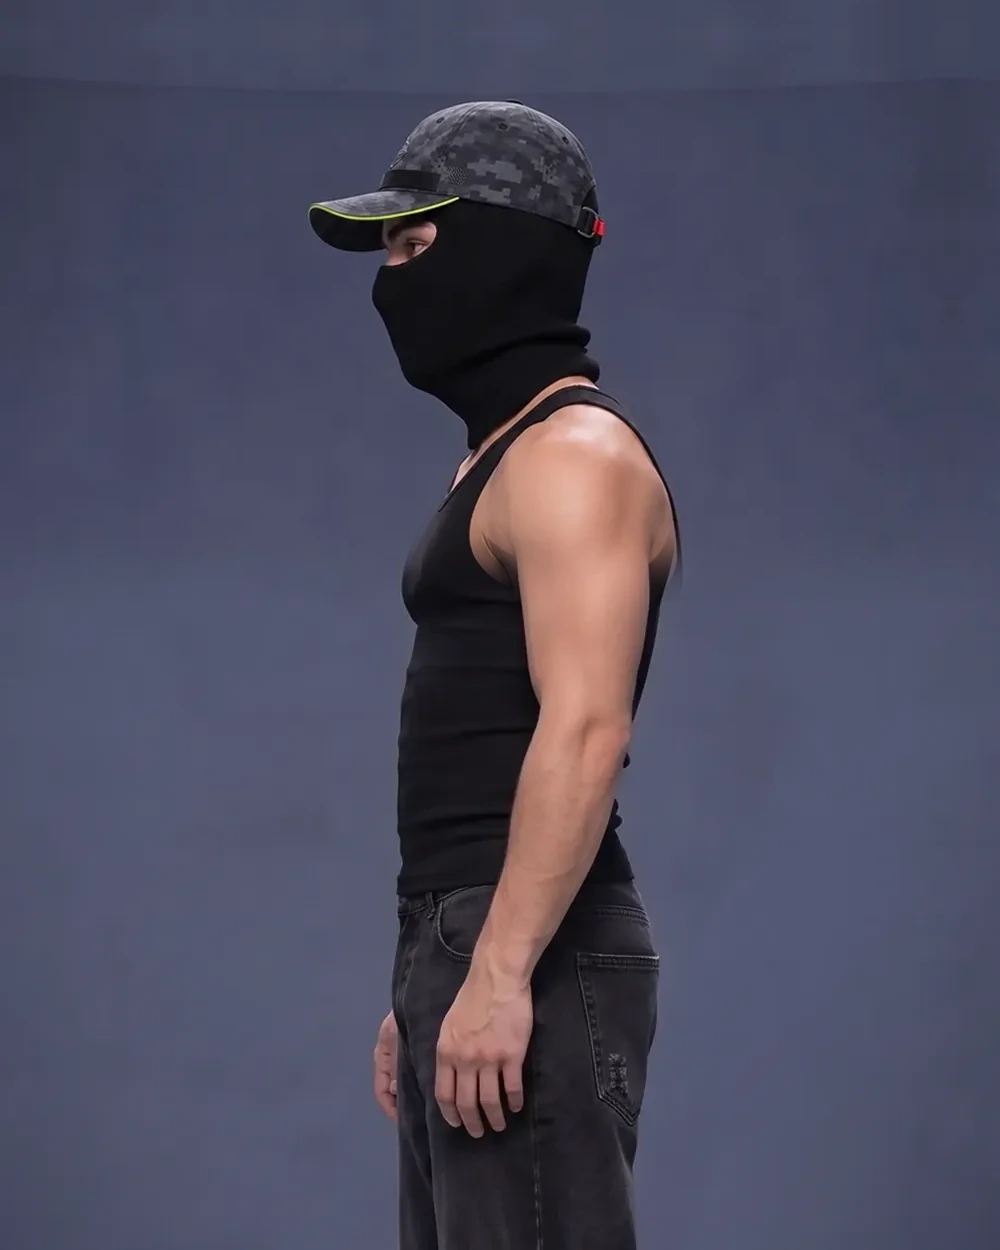
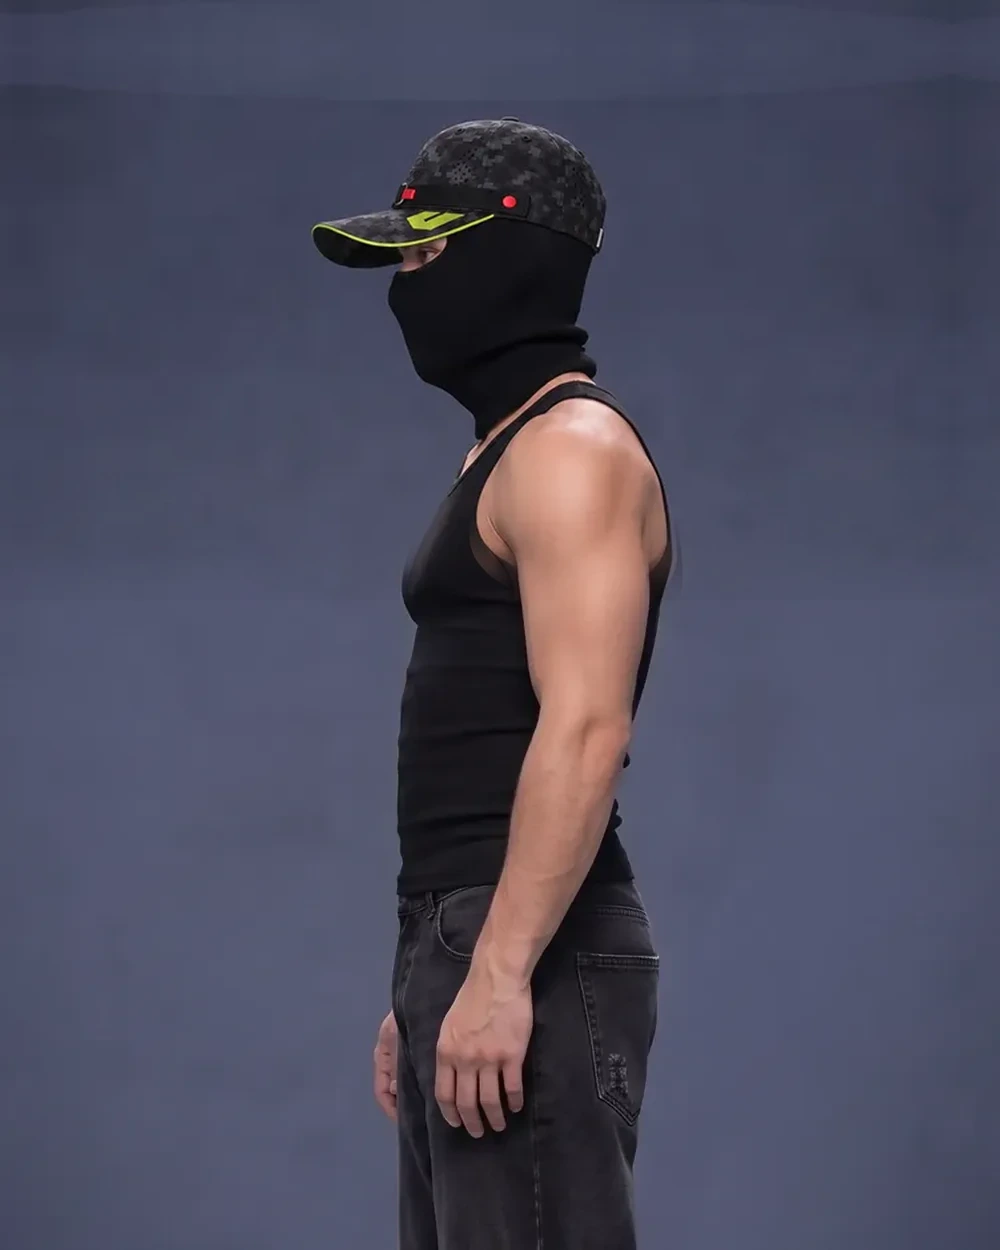
Cabine camo cap: fix sides (red snap only on the left side, D-ring side plain)
Claude-Session: https://claude.ai/code/session_01JHKczBwFKYFofkfxCnLE6j

Changed region(s): [[0.31, 0.0624, 0.62, 0.2808], [0.434, 0.2808, 0.682, 0.468], [0.403, 0.2808, 0.434, 0.312]]

diff --git a/src/components/collection/CabineViewer.tsx b/src/components/collection/CabineViewer.tsx
@@ -5,7 +5,7 @@ import { useZoom } from "@/lib/use-zoom";
 
 export const CABINE_FRAMES = 8;
 /** Bump when the fitting-room photos change: busts copies cached by phones. */
-const CABINE_VERSION = "20261016f";
+const CABINE_VERSION = "20261016g";
 /** Degrees turned per pixel dragged: one viewport width is half a turn. */
 const DEG_PER_PX = 0.45;
 const FRICTION = 0.92;
